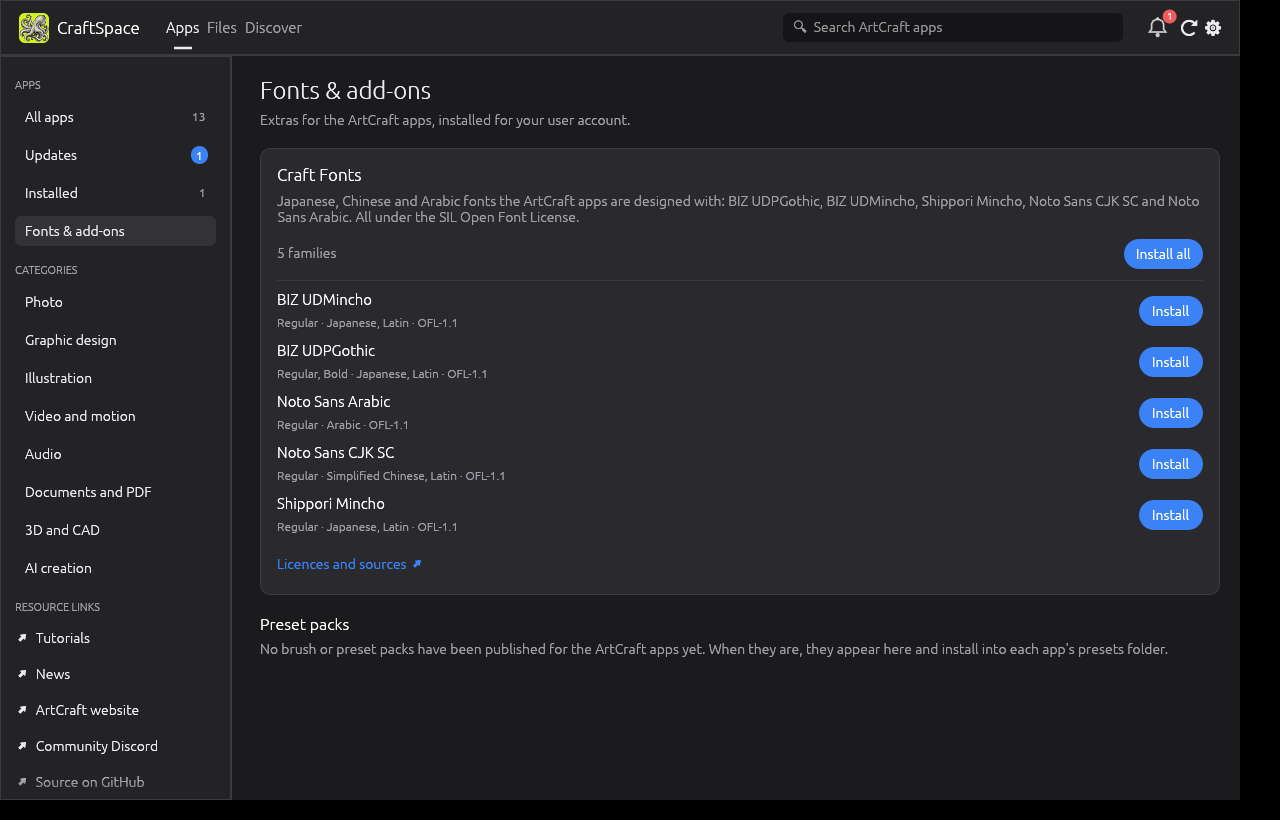
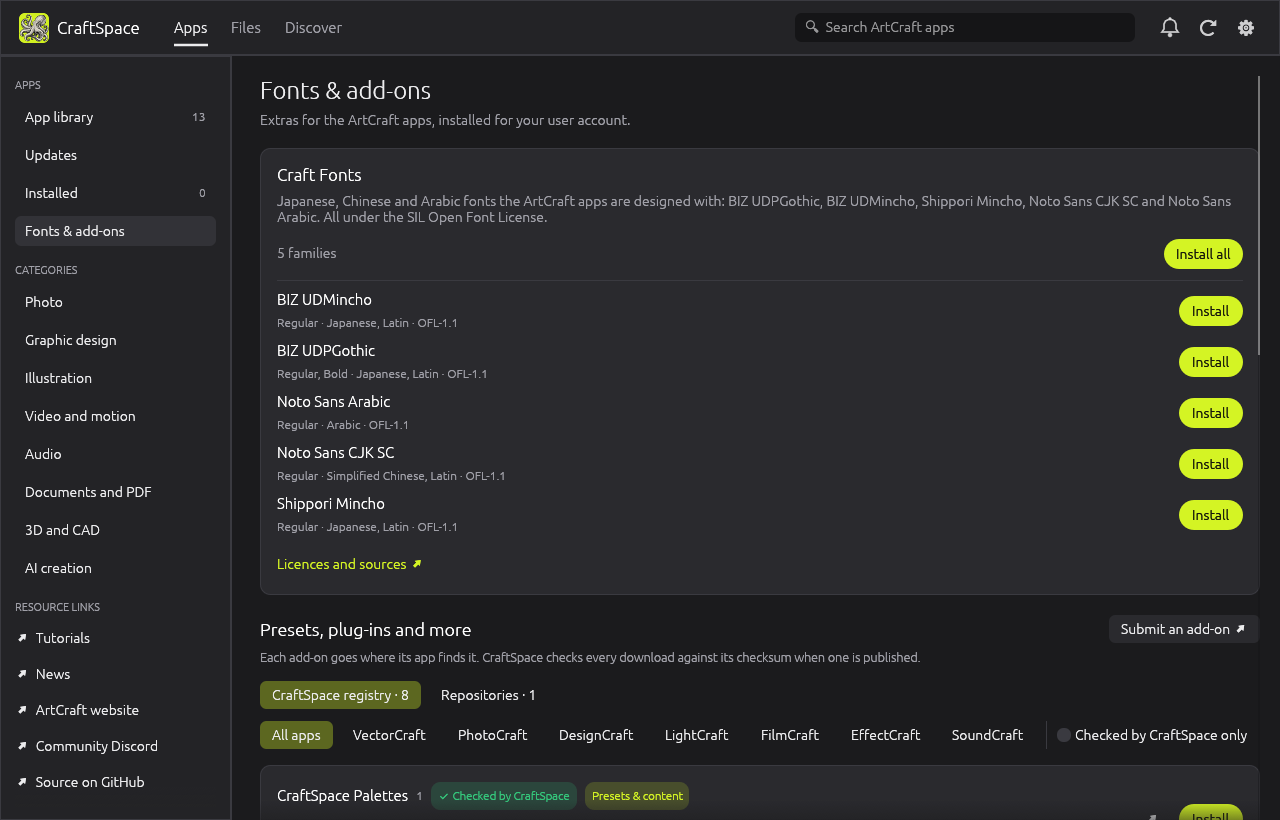
README: new screenshots with the lemon lime accent and App library

diff --git a/README.md b/README.md
@@ -8,7 +8,7 @@ DesignCraft, PdfCraft, FilmCraft, EffectCraft, SoundCraft, WordCraft, DeckCraft,
 CADCraft and ArtCraft). It's written in Rust and runs on Windows, macOS and Linux.
 
 
-![All apps](docs/screenshots/apps.png)
+![App library](docs/screenshots/apps.png)
 
 ## What it does
 
